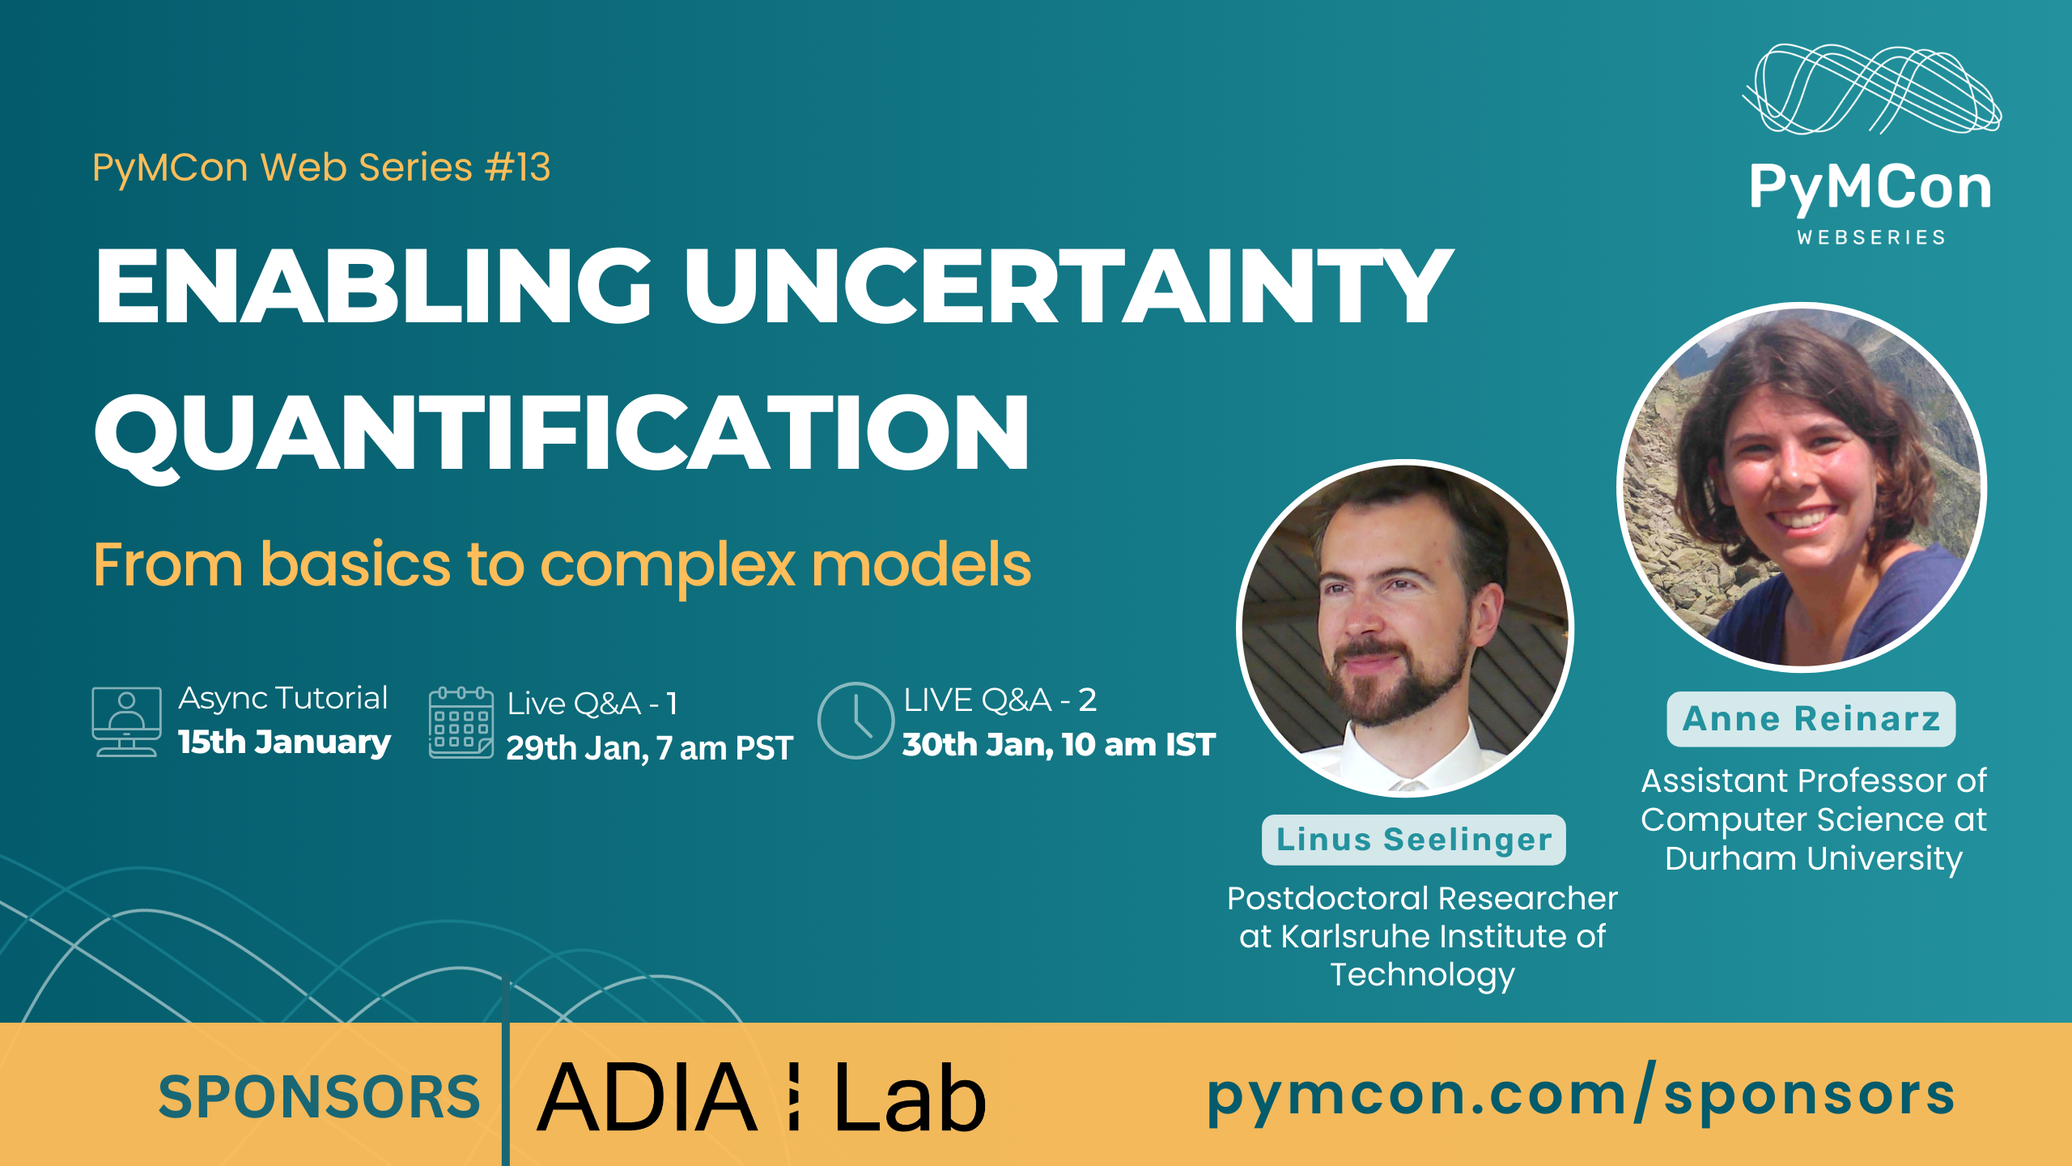
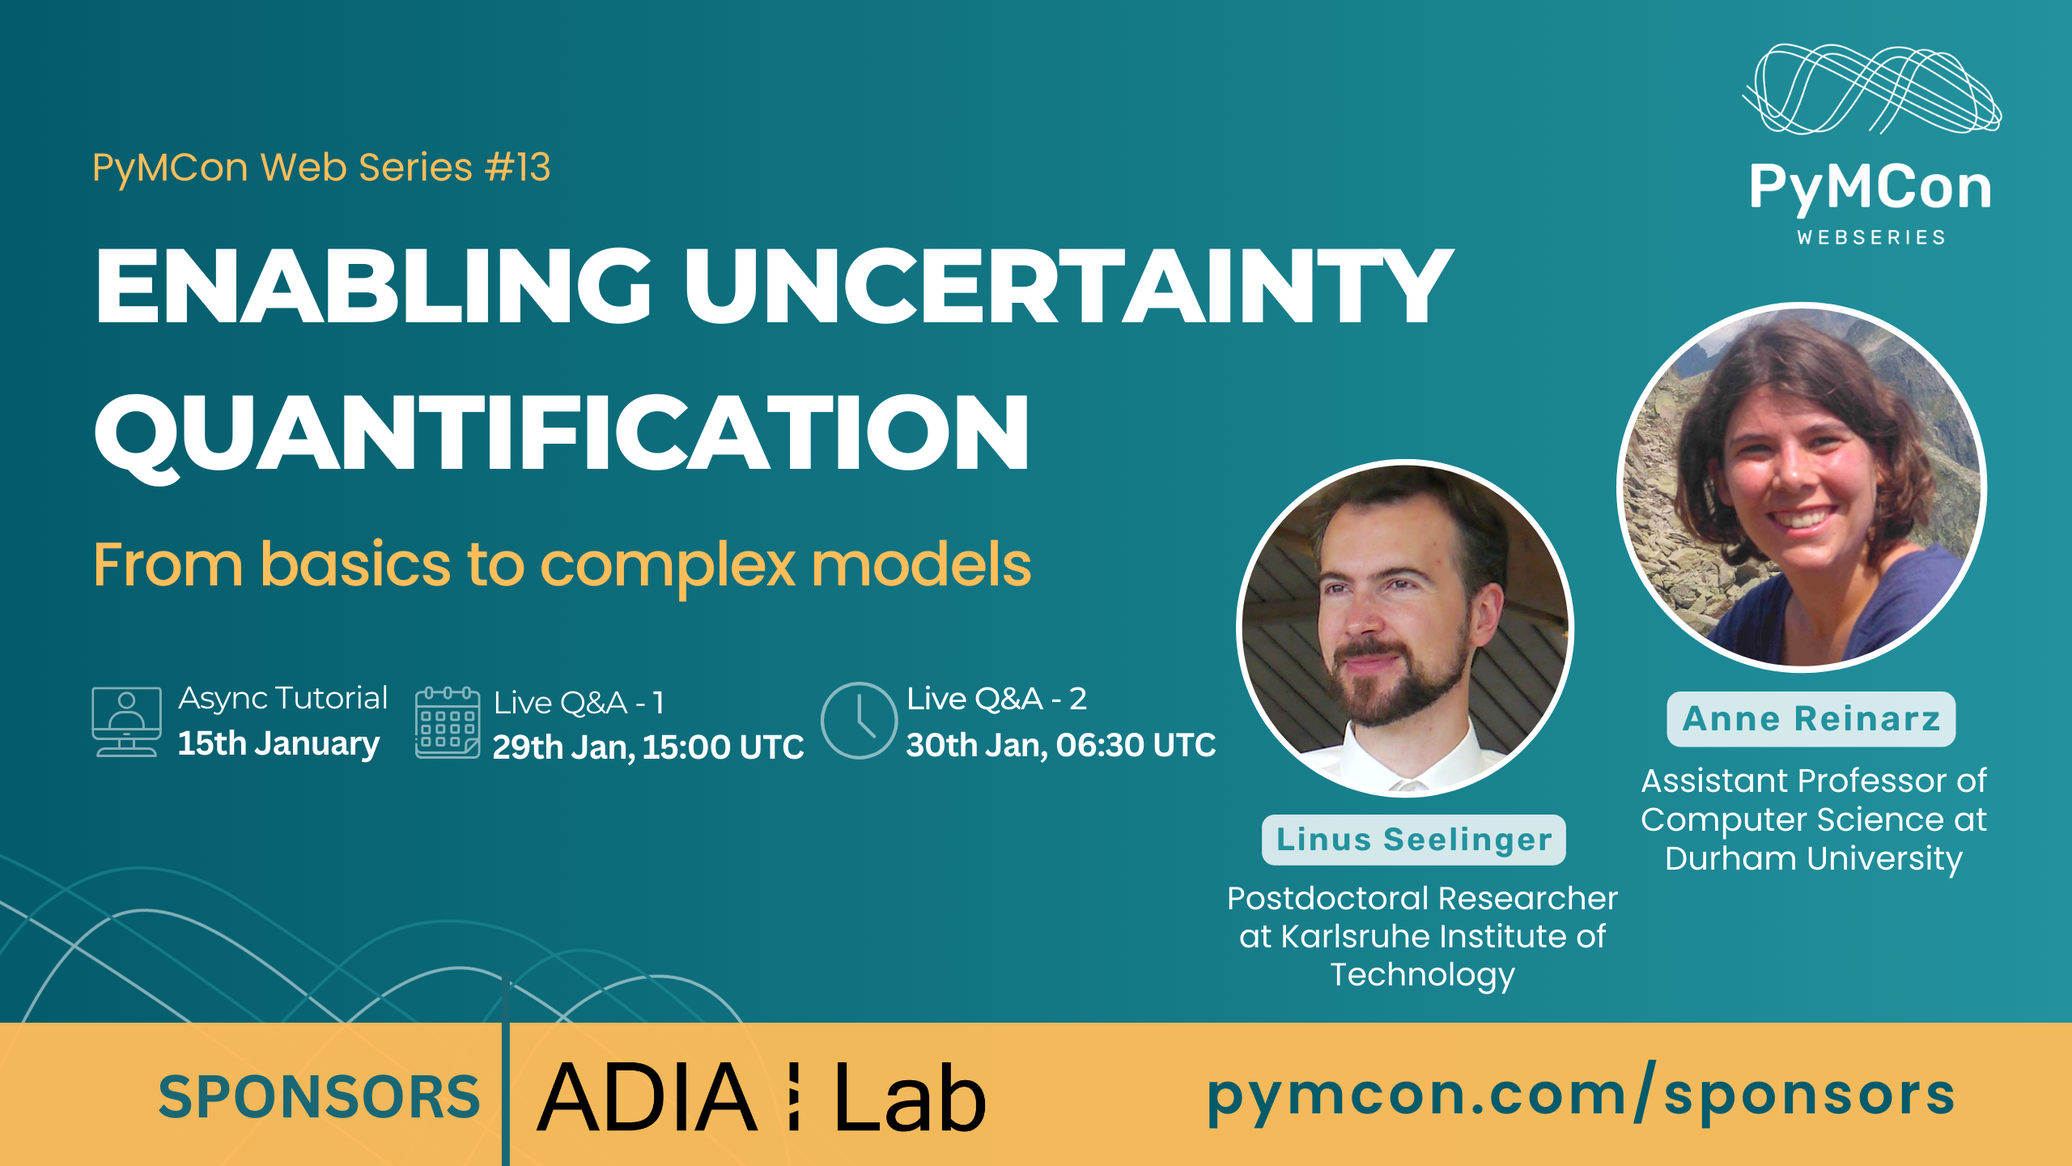
deploy: 2ccd2319c3f8740077962749cc741cefa988eea9

Changed region(s): [[0.0938, 0.5938, 0.5938, 0.6562]]

diff --git a/events/index.html b/events/index.html
@@ -3,7 +3,7 @@
 <link rel=apple-touch-icon sizes=180x180 href=../images/favicon/apple-touch-icon.png><link rel=icon type=image/png sizes=32x32 href=../images/favicon/favicon-32x32.png><link rel=icon type=image/png sizes=16x16 href=../images/favicon/favicon-16x16.png><link rel=manifest href=../images/favicon/site.webmanifest><meta property="og:title" content="PyMCon Events"><meta property="og:description" content="Join us to explore the cutting-edge development of PyMC, with talks from industry leaders and ample opportunity to connect with like-minded individuals. Don't miss out on this exciting event!"><meta property="og:type" content="article"><meta property="og:url" content="https://pymcon.com/events/"><meta property="og:image" content="https://pymcon.com/images/pymcon-logo-color.png"><meta property="article:section" content><meta property="og:site_name" content="PyMCon Web Series"><meta name=twitter:card content="summary_large_image"><meta name=twitter:image content="https://pymcon.com/images/pymcon-logo-color.png"><meta name=twitter:title content="PyMCon Events"><meta name=twitter:description content="Join us to explore the cutting-edge development of PyMC, with talks from industry leaders and ample opportunity to connect with like-minded individuals. Don't miss out on this exciting event!"><meta name=twitter:site content="@pymc_devs"><script type=application/ld+json>[{"@context":"https://schema.org","@type":"Article","articleSection":"PyMCon Web Series","name":"PyMCon Events","headline":"PyMCon Events","description":"Join us to explore the cutting-edge development of PyMC, with talks from industry leaders and ample opportunity to connect with like-minded individuals. Don\u0027t miss out on this exciting event!","inLanguage":"en-au","url":"https:\/\/pymcon.com\/events\/","author":{"@type":"Person","name":"PyMCon Team"},"mainEntityOfPage":"true","wordCount":"0"}]</script><meta name=author content="PyMCon Team"><link rel=stylesheet href=https://pymcon.com/css/main.css><link rel=stylesheet href=https://unicons.iconscout.com/release/v2.1.5/css/unicons.css><link rel=preconnect href=https://fonts.googleapis.com><link rel=preconnect href=https://fonts.gstatic.com crossorigin><link rel=stylesheet href='https://fonts.googleapis.com/css2?family=Montserrat:wght@300;400;500;600;700;800;900&display=swap'><link rel=stylesheet href=https://cdn.jsdelivr.net/npm/swiper@8/swiper-bundle.min.css><link rel=stylesheet href=https://cdnjs.cloudflare.com/ajax/libs/font-awesome/4.7.0/css/font-awesome.min.css><link rel=stylesheet href=../css/events.css><style>body{background-image:url(/images/bg-texture.png)}</style></head><body><div id=the-top><a href=#main-content class=skip_to_main><i class="uil uil-arrow-down"></i>
 Skip to main content
 <i class="uil uil-arrow-down"></i></a></div><header class="py-6 sm:py-10"><nav class=nav><div class="container nav__container"><div class=pymcon__logo><a href=../><img src=../images/pymcon-logo.png alt="PyMCon Logo"></a></div><ul class=nav__menu><li><a href=../about/>About</a></li><li><a href=../cfp/>CFP</a></li><li><a href=../events/>Events</a></li><li><a href=../organizers/>Organizers</a></li><li><a href=../faq/>FAQs</a></li><li><a href=../sponsors/>Sponsors</a></li><li><a href=../contact/>Contact</a></li><li><a href=../codeofconduct/>Code of Conduct</a></li></ul><button id=open-menu-btn aria-label="Open Menu"><i class="uil uil-bars"></i></button>
-<button id=close-menu-btn aria-label="Close Menu"><i class="uil uil-multiply"></i></button></div></nav></header><div id=main-content></div><header class=small__header><div class="container small__header__container"><div class=small__header__left><h1>PyMCon Events</h1><p>Join us to explore the cutting-edge development of PyMC, with talks from industry leaders and ample opportunity to connect with like-minded individuals. Don't miss out on this exciting event!</p></div><div class=small__header__right><div class=small__header__right-image><img src=../images/events.svg alt></div></div></div></header><section class="section events" id=pymcon_events><div class="container events__container"><div class=event__cards><div class=upcoming_events id=upcoming_events><h2>Upcoming Events</h2><article class="event__card upcoming" id=enabling_uncertainty_quantification><div class=event__header><div class=event__wrapper><h4>Monday, January 29, 2024 at 07:00 AM PST (03:00 pm UTC)</h4><a href=#enabling_uncertainty_quantification><h3>Enabling Uncertainty Quantification</h3></a><em>From basics to complex models</em><br><span><i class="uil uil-map-marker"></i>Online</span></div><img src=../images/events/pymcon_anne.png alt></div><div class=event__details><div class=event__summary><p>Treating uncertainties is essential in the design of safe aircraft, medical decision making, and many other fields. UM-Bridge enables straightforward uncertainty quantification (UQ) on advanced models by removing technical barriers.<br><br>Complex numerical models often consist of large code bases that are difficult to integrate with UQ packages such as PyMC, holding back many interesting applications. UM-Bridge is a universal interface for linking UQ and models, greatly accelerating development from prototype to high-performance computing.<br><br>This hands-on tutorial teaches participants how to build UQ applications using PyMC and UM-Bridge. We cover a range of practical exercises ranging from basic toy examples all the way to controlling parallelized models on a live cloud cluster. Beyond that, we encourage participants to bring their own methods and problems.</p></div><button class=readmore__btn>
+<button id=close-menu-btn aria-label="Close Menu"><i class="uil uil-multiply"></i></button></div></nav></header><div id=main-content></div><header class=small__header><div class="container small__header__container"><div class=small__header__left><h1>PyMCon Events</h1><p>Join us to explore the cutting-edge development of PyMC, with talks from industry leaders and ample opportunity to connect with like-minded individuals. Don't miss out on this exciting event!</p></div><div class=small__header__right><div class=small__header__right-image><img src=../images/events.svg alt></div></div></div></header><section class="section events" id=pymcon_events><div class="container events__container"><div class=event__cards><div class=upcoming_events id=upcoming_events><h2>Upcoming Events</h2><article class="event__card upcoming" id=enabling_uncertainty_quantification><div class=event__header><div class=event__wrapper><h4>Monday, January 29, 2024 at 15:00 UTC (07:00 AM PST)</h4><a href=#enabling_uncertainty_quantification><h3>Enabling Uncertainty Quantification</h3></a><em>From basics to complex models</em><br><span><i class="uil uil-map-marker"></i>Online</span></div><img src=../images/events/pymcon_anne.png alt></div><div class=event__details><div class=event__summary><p>Treating uncertainties is essential in the design of safe aircraft, medical decision making, and many other fields. UM-Bridge enables straightforward uncertainty quantification (UQ) on advanced models by removing technical barriers.<br><br>Complex numerical models often consist of large code bases that are difficult to integrate with UQ packages such as PyMC, holding back many interesting applications. UM-Bridge is a universal interface for linking UQ and models, greatly accelerating development from prototype to high-performance computing.<br><br>This hands-on tutorial teaches participants how to build UQ applications using PyMC and UM-Bridge. We cover a range of practical exercises ranging from basic toy examples all the way to controlling parallelized models on a live cloud cluster. Beyond that, we encourage participants to bring their own methods and problems.</p></div><button class=readmore__btn>
 <span class=readmore-txt>....read more</span>
 <span class=readless-txt>Read Less</span></button></div><div class=event__card__bottom><div class=speaker__info><a href=https://annereinarz.github.io/ target=_blank><img src=../images/speakers/anne.png alt>
 <em>Anne Reinarz & Linus Seelinger</em></a></div><a href=https://www.meetup.com/pymc-online-meetup/events/298279180/ target=_blank class="btn event__btn">Register Now</a>
@@ -11,7 +11,7 @@ Skip to main content
 <a href=https://discourse.pymc.io/t/13583 target=_blank class="btn event__btn">Discourse Post</a>
 <button class="btn event__btn copy_link_btn" title="Copy link to this event" onclick=copyToClipboard(this) data-url=#enabling_uncertainty_quantification>
 <span id=copyIcon><i class="uil uil-link"></i></span>
-<span class=copy_link_btn_text>Copied</span></button></div></article><article class="event__card upcoming" id=enabling_uncertainty_quantification><div class=event__header><div class=event__wrapper><h4>Tuesday, January 30, 2024 at 12:00 PM IST (6:30 am UTC)</h4><a href=#enabling_uncertainty_quantification><h3>Enabling Uncertainty Quantification</h3></a><em>From basics to complex models</em><br><span><i class="uil uil-map-marker"></i>Online</span></div><img src=../images/events/pymcon_anne.png alt></div><div class=event__details><div class=event__summary><p>Treating uncertainties is essential in the design of safe aircraft, medical decision making, and many other fields. UM-Bridge enables straightforward uncertainty quantification (UQ) on advanced models by removing technical barriers.<br><br>Complex numerical models often consist of large code bases that are difficult to integrate with UQ packages such as PyMC, holding back many interesting applications. UM-Bridge is a universal interface for linking UQ and models, greatly accelerating development from prototype to high-performance computing.<br><br>This hands-on tutorial teaches participants how to build UQ applications using PyMC and UM-Bridge. We cover a range of practical exercises ranging from basic toy examples all the way to controlling parallelized models on a live cloud cluster. Beyond that, we encourage participants to bring their own methods and problems.</p></div><button class=readmore__btn>
+<span class=copy_link_btn_text>Copied</span></button></div></article><article class="event__card upcoming" id=enabling_uncertainty_quantification><div class=event__header><div class=event__wrapper><h4>Tuesday, January 30, 2024 at 6:30 UTC (12:00 PM IST)</h4><a href=#enabling_uncertainty_quantification><h3>Enabling Uncertainty Quantification</h3></a><em>From basics to complex models</em><br><span><i class="uil uil-map-marker"></i>Online</span></div><img src=../images/events/pymcon_anne.png alt></div><div class=event__details><div class=event__summary><p>Treating uncertainties is essential in the design of safe aircraft, medical decision making, and many other fields. UM-Bridge enables straightforward uncertainty quantification (UQ) on advanced models by removing technical barriers.<br><br>Complex numerical models often consist of large code bases that are difficult to integrate with UQ packages such as PyMC, holding back many interesting applications. UM-Bridge is a universal interface for linking UQ and models, greatly accelerating development from prototype to high-performance computing.<br><br>This hands-on tutorial teaches participants how to build UQ applications using PyMC and UM-Bridge. We cover a range of practical exercises ranging from basic toy examples all the way to controlling parallelized models on a live cloud cluster. Beyond that, we encourage participants to bring their own methods and problems.</p></div><button class=readmore__btn>
 <span class=readmore-txt>....read more</span>
 <span class=readless-txt>Read Less</span></button></div><div class=event__card__bottom><div class=speaker__info><a href=https://www.linusseelinger.de/ target=_blank><img src=../images/speakers/linus.JPG alt>
 <em>Anne Reinarz & Linus Seelinger</em></a></div><a href=https://www.meetup.com/pymc-online-meetup/events/298356399/ target=_blank class="btn event__btn">Register Now</a>

diff --git a/index.html b/index.html
@@ -6,12 +6,12 @@ Skip to main content
 <button id=close-menu-btn aria-label="Close Menu"><i class="uil uil-multiply"></i></button></div></nav></header><div id=main-content></div><header class=header><div class="container header__container"><div class=header__left><h1>PyMCon Web Series</h1><p>An Asynchronous-first virtual conference for the Bayesian community</p><p>We believe in building a community as much as we believe in building code. Come and join with us!</p><a href=https://pymcon.com/cfp/ class="btn btn-primary">Submit a Proposal</a></div><div class=header_right><div class=rocket><img src=./images/pymc-logo-350.png alt></div><div class=pulse><span style=--delay:1></span>
 <span style=--delay:2></span>
 <span style=--delay:3></span>
-<span style=--delay:4></span></div></div></div></header><section class="section events" id=featured_events><h2>PyMCon Events</h2><p>PyMCon is a series of running events; check out more <a href=https://pymcon.com/events/>events here.</a></p><div class="container events__container event_3"><div class="swiper eventCardSlider"><div class=swiper-wrapper><article class="event__card swiper-slide"><div class=event__header><img src=./images/events/pymcon_anne.png alt><div class=event__wrapper><h4>Monday, January 29, 2024 at 07:00 AM PST (03:00 pm UTC)</h4><h3>Enabling Uncertainty Quantification</h3><em>From basics to complex models</em><br><span><i class="uil uil-map-marker"></i>Online</span></div></div><div class=event__details><div class=event__summary><p>Treating uncertainties is essential in the design of safe aircraft, medical decision making, and many other fields. UM-Bridge enables straightforward uncertainty quantification (UQ) on advanced models by removing technical barriers.<br><br>Complex numerical models often consist of large code bases that are difficult to integrate with UQ packages such as PyMC, holding back many interesting applications. UM-Bridge is a universal interface for linking UQ and models, greatly accelerating development from prototype to high-performance computing.<br><br>This hands-on tutorial teaches participants how to build UQ applications using PyMC and UM-Bridge. We cover a range of practical exercises ranging from basic toy examples all the way to controlling parallelized models on a live cloud cluster. Beyond that, we encourage participants to bring their own methods and problems.</p></div><button class=readmore__btn>
+<span style=--delay:4></span></div></div></div></header><section class="section events" id=featured_events><h2>PyMCon Events</h2><p>PyMCon is a series of running events; check out more <a href=https://pymcon.com/events/>events here.</a></p><div class="container events__container event_3"><div class="swiper eventCardSlider"><div class=swiper-wrapper><article class="event__card swiper-slide"><div class=event__header><img src=./images/events/pymcon_anne.png alt><div class=event__wrapper><h4>Monday, January 29, 2024 at 15:00 UTC (07:00 AM PST)</h4><h3>Enabling Uncertainty Quantification</h3><em>From basics to complex models</em><br><span><i class="uil uil-map-marker"></i>Online</span></div></div><div class=event__details><div class=event__summary><p>Treating uncertainties is essential in the design of safe aircraft, medical decision making, and many other fields. UM-Bridge enables straightforward uncertainty quantification (UQ) on advanced models by removing technical barriers.<br><br>Complex numerical models often consist of large code bases that are difficult to integrate with UQ packages such as PyMC, holding back many interesting applications. UM-Bridge is a universal interface for linking UQ and models, greatly accelerating development from prototype to high-performance computing.<br><br>This hands-on tutorial teaches participants how to build UQ applications using PyMC and UM-Bridge. We cover a range of practical exercises ranging from basic toy examples all the way to controlling parallelized models on a live cloud cluster. Beyond that, we encourage participants to bring their own methods and problems.</p></div><button class=readmore__btn>
 <span class=readmore-txt>....read more</span>
 <span class=readless-txt>Read Less</span></button></div><div class=event__card__bottom><div class=speaker__info><a href=https://annereinarz.github.io/ target=_blank><img src=./images/speakers/anne.png alt>
 <em>Anne Reinarz & Linus Seelinger</em></a></div><a href=https://www.meetup.com/pymc-online-meetup/events/298279180/ target=_blank class="btn event__btn">Register Now</a>
 <a href="https://www.youtube.com/watch?v=BdHQfn_3vjQ" target=_blank class="btn event__btn">Interview video</a>
-<a href=https://discourse.pymc.io/t/13583 target=_blank class="btn event__btn">Discourse Post</a></div></article><article class="event__card swiper-slide"><div class=event__header><img src=./images/events/pymcon_anne.png alt><div class=event__wrapper><h4>Tuesday, January 30, 2024 at 12:00 PM IST (6:30 am UTC)</h4><h3>Enabling Uncertainty Quantification</h3><em>From basics to complex models</em><br><span><i class="uil uil-map-marker"></i>Online</span></div></div><div class=event__details><div class=event__summary><p>Treating uncertainties is essential in the design of safe aircraft, medical decision making, and many other fields. UM-Bridge enables straightforward uncertainty quantification (UQ) on advanced models by removing technical barriers.<br><br>Complex numerical models often consist of large code bases that are difficult to integrate with UQ packages such as PyMC, holding back many interesting applications. UM-Bridge is a universal interface for linking UQ and models, greatly accelerating development from prototype to high-performance computing.<br><br>This hands-on tutorial teaches participants how to build UQ applications using PyMC and UM-Bridge. We cover a range of practical exercises ranging from basic toy examples all the way to controlling parallelized models on a live cloud cluster. Beyond that, we encourage participants to bring their own methods and problems.</p></div><button class=readmore__btn>
+<a href=https://discourse.pymc.io/t/13583 target=_blank class="btn event__btn">Discourse Post</a></div></article><article class="event__card swiper-slide"><div class=event__header><img src=./images/events/pymcon_anne.png alt><div class=event__wrapper><h4>Tuesday, January 30, 2024 at 6:30 UTC (12:00 PM IST)</h4><h3>Enabling Uncertainty Quantification</h3><em>From basics to complex models</em><br><span><i class="uil uil-map-marker"></i>Online</span></div></div><div class=event__details><div class=event__summary><p>Treating uncertainties is essential in the design of safe aircraft, medical decision making, and many other fields. UM-Bridge enables straightforward uncertainty quantification (UQ) on advanced models by removing technical barriers.<br><br>Complex numerical models often consist of large code bases that are difficult to integrate with UQ packages such as PyMC, holding back many interesting applications. UM-Bridge is a universal interface for linking UQ and models, greatly accelerating development from prototype to high-performance computing.<br><br>This hands-on tutorial teaches participants how to build UQ applications using PyMC and UM-Bridge. We cover a range of practical exercises ranging from basic toy examples all the way to controlling parallelized models on a live cloud cluster. Beyond that, we encourage participants to bring their own methods and problems.</p></div><button class=readmore__btn>
 <span class=readmore-txt>....read more</span>
 <span class=readless-txt>Read Less</span></button></div><div class=event__card__bottom><div class=speaker__info><a href=https://www.linusseelinger.de/ target=_blank><img src=./images/speakers/linus.JPG alt>
 <em>Anne Reinarz & Linus Seelinger</em></a></div><a href=https://www.meetup.com/pymc-online-meetup/events/298356399/ target=_blank class="btn event__btn">Register Now</a>
